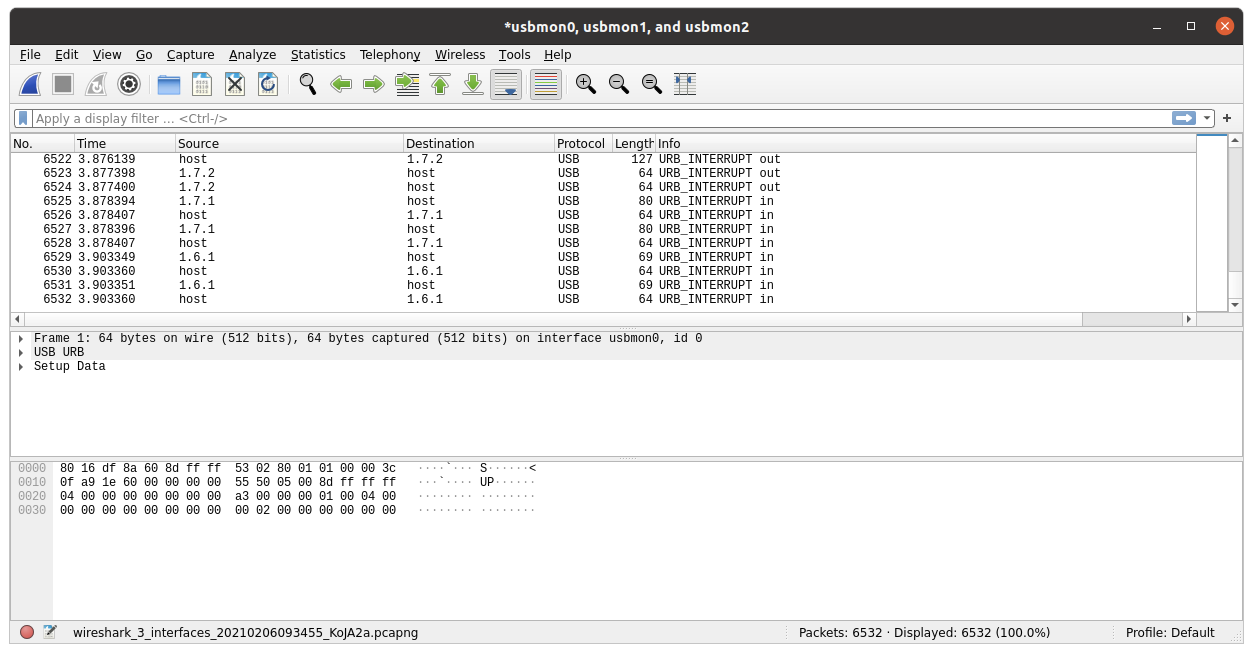
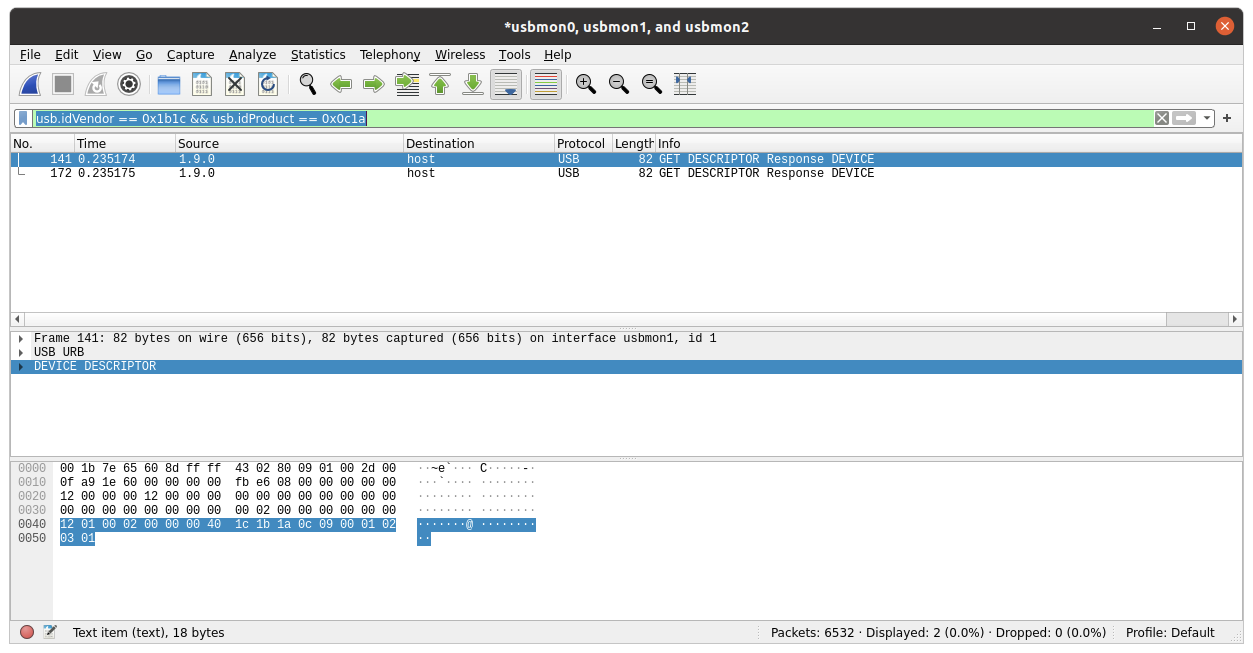
Moved the VM creation steps to a separate doc to restore the previous documentation flow.

diff --git a/docs/developer/capturing-usb-traffic.md b/docs/developer/capturing-usb-traffic.md
@@ -16,164 +16,86 @@ application.
 
 ## Capturing USB traffic on a native Windows host
 
-Capturing traffic between the source application and your device requires a little setup, but once in place gives you a powerful tool to decipher the protocol.  For Corsair devices, for example, the application that controls your device and issues the device-specific commands is the Corsair iCue software which runs on Windows.  This guide will take you through the steps to set up the network traffic listener specifically for Corsair, but these instructions will be applicable for any other devices that are controlled from Windows software.  I chose Corsair for this because that's the only device I have at my disposal 🙂
+Get [Wireshark].  During the Wireshark setup, enable the installation of
+USBPcap for experimental capturing of USB traffic.  Reboot.
 
-Basic Steps:
-1. Enable Virtualization in your BIOS
-2. Install a Virtual Machine manager.
-3. Create a  Windows VM
-4. Install and run your device controlling software in the Windows VM (Corsair iCue in this example).
-5. Install wireshark on your Linux box.
-6. Set up a filter so that ONLY the traffic between your Windows VM and Device are captured.
-7. Capture the traffic!
+To capture some USB traffic, start Wireshark, double click the USBPcap1
+interface to start capturing all traffic on it, and proceed to [Finding the target device](#finding-the-target-device).
+
+_If you have more than one USBPcap interface, you may need to look for the
+target devices in each of them._
 
 
 
-### Step 1. Enable Virtualization in your BIOS
 
-The first step to getting your windows 10 64-bit VM up and running is to ensure your motherboard enables hardware support for Intel VT-x or AMD-v.  These features  are required in order to run a 64-bit VM, or have a VM that supports more than 1 CPU core.   In most modern motherboards these features are disabled by default, so you may need to enable them in your BIOS.  The exact setting to check is motherboard dependent, but should be something in the "virtualization" universe.  This post lists a few of the common settings, but to save you a click, you can look for the following:
-- "Enable Virtualization Technology", 
-- "Enable SVM Mode" (AMD CPUs), 
-- "Enable Vanderpool Technology" (Intel)
-- "Secure Virtual Mode"
-- "Intel (VMX) Virtualization Technology"
+## Capturing USB traffic on Linux
+_and capturing USB traffic in a Windows VM, through the Linux host_
 
-On my z490-f motherboard, the last setting was the correct one.  If you poked around and can't find a setting that seems right, and your motherboard is somewhat recent (last 5 years), then it might be enabled by default and you can just move on the next step.  You will know for sure whether it is enabled if you are unable to create a 64 bit windows 10 VM in step 3.  If that's the case, then you'll need to look harder for the setting in your BIOS, or get your Google on.
+You will need to install [Wireshark] from your favorite package manager.
 
-If you do make any changes in your BIOS then do a power cycle (turn the computer totally off, then on) to ensure the BIOS changes are enabled.  Sometimes a reboot doesn't do it, and the extra few seconds turning the computer all the way off is a good investment to eliminate variables.
+You may have to run Wireshark as root to be able to capture USB traffic.
+Alternatively you can give the your normal user permissions to capture traffic by
+adding your self to the `wireshark` group and granting yourself read permissions on the `/dev/usbmon*` devices.
+Some extra steps may be needed, you can follow the instructions [here](https://wiki.wireshark.org/CaptureSetup/USB).
+Note you may need to logout and login agin for these changes to take effect.
 
+The general steps are as follows:
 
-### Step 2. Install a Virtual Machine manager
+1. [Create and configure a Windows VM](./creating-vm-for-capture.md).
+2. Start listening for the device USB traffic on Wireshark.
+4. Start changing device settings using the application running in the Windows VM and watch the messages appear in the Wireshark interface running on the host OS.
+5. Success!
 
-My Virtual Machine software of choice for Linus is virt-manager.  VirtualBox is also popular, but I have had mixed results with it so default to virt-manager which can be installed via your favorite package manager.
-```
-sudo apt-get install virt-manager
-```
-Start it up. 
-```
-virt-manager
-```
-You might get a warning about a missing daemon running.  If so, enable the daemon.
-Reboot. 
+To capture USB traffic after setting up the VM, start Wireshark and select the appropriate `usbmon` interface for capturing traffic to your device.  You can select them on the main screen, or in the Capture -> Options menu.  If you aren't sure which usbmon device is correct, select them all then proceed to [Finding the target device](#finding-the-target-device).
 
+![usbmon interface](./images/wireshark_1.png)
 
-### Step 3. Create a Windows VM
+## Finding the target device
+[Finding the target device](#finding-the-target-device)
 
-With the hardware all set to go and virt-manager installed, its time to create the guest VM running Windows 10.  
-First, download the Windows 10 ISO:  https://www.microsoft.com/en-in/software-download/windows10ISO
-You will need a free Microsoft account to download the ISO, but you do not need a license (assuming you are just using the VM for testing).
+Wireshark captures USB traffic at the bus level, which means that all devices
+on that bus will be captured.  This is a lot of noise, so the first step is
+find the target device among all others and filter the traffic to that device.
 
-Start virt-manager
-```
-virt-manager
-```
-After Virtual Machine Manager opens, create a new VM by selecting File -> "Create New Virtual Machine", or click this icon in the toolbar.  
-![Create a new virtual machine](./images/create_vm.png)
+_For this example, assume the target device has vendor and product IDs `0x1b1c`
+and `0x0c1a`, respectively._
 
-If you see a warning message on that "Create a virtual machine" screen that KVM is not available, then this is a sign that virtualization is likely disabled in your bios.  Please see step 1.  
-![Create VM 1](./images/create_vm_1.png)  
+First, capture some USB traffic and apply a filter to the captured traffic (via the top bar) to filter out everything except the `GET DESCRIPTOR` response for this device. 
 
-If you continue forward without resolving this, then you are likely to encounter this scary message at some point.
-![Create VM 2](./images/create_vm_2.png)  
-
-Assuming you are all set, then ensure the "Local install media option" is selected, then select "Forward".  
-![Create VM 3](./images/create_vm_3.png)  
-
-Choose the ISO you downloaded previously, and click Forward.  
-![Create VM 4](./images/create_vm_4.png)  
-
-Allocate sufficient CPU and memory (I chose 2 CPU and 4 GB of memory).  Click Forward.
-![Create VM 5](./images/create_vm_5.png)  
-
-Next choose as much disk space as you deem necessary (I chose 50GB).  Click Forward.
-![Create VM 6](./images/create_vm_6.png)  
-
-In the last screen, check "Customize configuration before install, and click Finish.
-![Create VM 7](./images/create_vm_7.png)  
-
-This will take you to this screen:
-![Create VM 8](./images/create_vm_8.png)  
-
-This is the screen that enables you to make your attached devices available to the guest VM.  In my case, I want to make my Corsair Lightning Node Core, Corsair Commander Pro, and Corsair H100i RGB Pro XT available to the guest VM so that I can control them in the guest VM via the Corsair iCue software.  
-To make them available to the guest VM, click "Add Hardware", then select "USB Host Device".  The right side of the screen will list off the USB devices attached to your motherboard.  Select the device you would like to add and click Finish. 
-![Create VM 9](./images/create_vm_9.png)  
-
-Repeat this for each device you would like to add to your guest VM.  In my case, I selected the 3 Corsair devices.  Once added, they should show up in your VMs hardware list.  In the screenshot below, they are the 3 USB devices.
-![Create VM 10](./images/create_vm_10.png)  
-
-Then, click "Begin Installation" in the non-obvious upper left corner and follow the on-screen instructions to install Windows 10.
-
-
-### Step 4. Install and run your device controlling software in the Windows VM 
-
-Once Windows 10 is installed, install the software that will control your device.  In the case of a Corsair device, the software is Corsair iCue.  Download the latest version from Corsair's website and install it.  When you run it for the first time, it should auto-detect your devices, allowing you to control them as you see fit.  If you are controlling RGB lighting like I was, then go crazy experimenting with some of the neato effects. 
-![iCue](./images/icue.png)  
-
-When you are done playing, it's time to start snooping on the network traffic that the software is using to control the device(s).
-
-
-### Step 5. Install wireshark on your Linux box.
-
-```
-sudo apt install wireshark
-```
-
-### Step 6. Set up a filter so that ONLY the traffic between your Windows VM and Device are captured.
-Ensure your guest VM is running.
-Be sure usbmon kernel module is loaded so you can capture USB traffic
-```
-cat /proc/modules | grep usbmon
-```
-
-if it isn't there, then load it.
-```
-sudo modprobe usbmon
-```
-
-Start Wireshark
-```
-sudo wireshark
-```
-
-Once open, select Capture -> Options in the top menu (or hit Ctrl-K).  
-![Wireshark 1](./images/wireshark_1.png)  
-
-This window allows you to filter your traffic sniffing to only certain devices.  For our purposes, we only want to list to USB traffic since our devices are attached via USB to our motherboard.
-Select all the "usbmon" devices that you see, then click Start.  If you do not see any usbmon devices, then you likely don't have the usbmon kernel module loaded.  Please see the instructions above.
-
-After pressing Start, wireshark will start listening for traffic across all your USB devices.  You should see messages appearing in the main content windows of wireshark.
-![Wireshark 2](./images/wireshark_2.png)  
-
-If you see messages. then that indicates that wireshark can successfully listen to all your USB traffic and we are nearly there.  Let it listen for a few seconds, then press the red square button in the top icon bar to stop listening for traffic.
-
-Next step is to filter for only the messages we care about.  To do so, first find the vendorId, and the productId of your devices.  The easiest way to find them is in your VM configuration.  In your running guest VM, click the "Show Virtual Hardware Details" button.  
-![VM Details](./images/vm_details.png)  
-
-In the virtual hardware window, select the USB device on the left-hand side of the window that corresponds to the device you would like to monitor.  In my case, it is the Corsair Lightning Node Core device.  On the left hand side, you can see the "USB 1b1c:0c1a".  The first number "1b1c" is the vendorId, and the second number "0c1a" is the productId.  You'll need these for filtering.
-![Wireshark 3](./images/wireshark_3.png)  
-
-Return back to Wireshark and in the top filter bar, enter the following, replacing the values with your vendor and product ids.  Press enter to activate the filter.
 ```
 usb.idVendor == 0x1b1c && usb.idProduct == 0x0c1a
 ```
+![Wireshark 4](./images/wireshark_2.png)  
 
-If you have entered the values correctly (note the "0x" prepended to the values), you should have filtered the captured traffic to only be the GET DESCRIPTOR responses.
-![Wireshark 4](./images/wireshark_4.png)  
 
 Next step is to get the device address so that we can tell wireshark to only capture traffic to our desired device.
-Highlight one of the GET DESCRIPTOR response packets, expand the USB URB section in the packet details, and find the "Device: #" line. This is the device address.   Right click the "Device: #" entry, choose "Apply As Filter", then "Selected".  In my screenshot below, the device number was 9.
-![Wireshark 5](./images/wireshark_5.png)  
+Select one of the `GET DESCRIPTOR` response packets, expand the USB URB section in the packet details, and find the "Device: #" line. This is the device address.   Right click the "Device: #" entry, choose "Apply As Filter", then "Selected".  In the screenshot below the device number was 9.
+![Wireshark 5](./images/wireshark_3.png)  
 
-This will change your packet filter to something like "usb.device_address == 9", which is exactly what we want.  Now only traffic sent to that specific device will be captured.
-![Wireshark 6](./images/wireshark_6.png)  
+This will change your packet filter to something like `usb.device_address == 9`, which is exactly what we want.  Now only traffic sent to that specific device will be displayed.
+![Wireshark 6](./images/wireshark_4.png)  
 
-Success!  You can now modify settings for your device in the the guest VM, and capture the traffic in wireshark.  For convenience, you may want to save your filter for future captures.  Click on the bookmark icon immediately next to the filter to save it.
-
-### Step 7. Capture the traffic!
-With everything now in place you are all set to capture traffic.  Click the shark fin button in the menu bar to start a fresh capture, then make your device changes in the guest VM to generate your desired traffic. When you are happy with the results, stop the capture and export your traffic File -> Export Specified packets.
+For convenience, you may want to save your filter for future captures.  Click on the bookmark icon immediately next to the filter to save it.
 
 
+## Exporting captured data
 
+There are two main useful ways to work with Wireshark captures of USB traffic.
+
+The first is within Wireshark itself, using its native PCAP format (or any of
+its variants), which is useful for manual analysis.  _PCAP files are also the
+preferred way of storing and sharing captured USB traffic._
+
+You can simply File -> Save to export captured traffic from Wireshark.  But for
+more control over what will be exported (for example, only currently
+filtered/displayed packets), File -> Export Specified Packets is generally
+preferred.
+
+The other way of analyzing USB traffic is through external, and sometimes
+custom, tools.  In theses cases it may be helpful to additionally export the
+data to JSON (File -> Export Packet Dissections -> As JSON).  Plain text or CSV
+dissections are _not_ very useful with USB data, since Wireshark tends to
+truncate the long fields that are of our interest.
 
 ## Next steps
 
@@ -185,7 +107,7 @@ so that I can easily only show the fields I can about and can use other bash com
 some of the extraneous messages (for example Corsair iCue sends a get status message every second which I am generally not
 interested in).
 
-Next steps would be to take a look at (analyzing USB protocols)[techniques-for-analyzing-usb-protocols.md]
+Next steps would be to take a look at [analyzing USB protocols](techniques-for-analyzing-usb-protocols.md)
 
 [Wireshark]: https://www.wireshark.org
 [USBPcap]: https://desowin.org/usbpcap/

diff --git a/docs/developer/creating-vm-for-capture.md b/docs/developer/creating-vm-for-capture.md
@@ -1,0 +1,107 @@
+## Virtual Machine Setup for Traffic Capture
+
+Capturing traffic between the source application running in a VM and your device requires a little setup, but once in place gives you a handy tool to capture USB traffic.  There are a few nuances of which you should be aware to correctly set up a VM for USB traffic capture, and this doc will walk through the steps required using a reference configuration in an attempt to make the steps as clear as possible.  Your configuration will likley differ from the reference configuration, but hopefully having a working reference will be helpful to adapt to your environment. 
+
+#### Reference Configuration ####
+- Virtual Machine Manager: [virt-manager](https://virt-manager.org/)
+- Guest OS: Windows 10 64-bit 
+- Host OS: Ubuntu 20.04
+- Source application: Corsair iCue  
+
+In short, the reference configuration will be running Corsair iCue in the Windows 10 guest VM, and capturing the device USB traffic in Wireshark running in the Ubuntu host OS.
+
+### Basic Steps ###
+1. Enable Virtualization in your BIOS
+2. Install a Virtual Machine manager.
+3. Create a  Windows VM
+4. Install and run your device controlling software in the Windows VM (Corsair iCue in this example).
+5. Capture the traffic.
+
+
+### Step 1. Enable Virtualization in your BIOS
+
+Ensure your motherboard enables hardware support for Intel VT-x or AMD-v.  These features are required in order to run a 64-bit VM, or have a VM that supports more than 1 CPU core.   In most modern motherboards these features are disabled by default, so you may need to enable them in your BIOS.  The exact setting to check is motherboard dependent, but should be something in the "virtualization" universe.  [This post](https://forums.virtualbox.org/viewtopic.php?f=1&t=62339) lists a few of the common settings, but to save you a click you can look for the following:
+- "Enable Virtualization Technology", 
+- "Enable SVM Mode" (AMD CPUs), 
+- "Enable Vanderpool Technology" (Intel)
+- "Secure Virtual Mode"
+- "Intel (VMX) Virtualization Technology"
+
+If you poked around and can't find a setting that seems right, and your motherboard is somewhat recent, then it might be enabled by default and you can just move on the next step.  You will know for sure whether it is enabled if you are unable to create a 64 bit windows 10 VM in step 3.  If that's the case, then you'll need to look harder for the setting in your BIOS, or get your Google on.
+
+If you do make any changes in your BIOS then do a power cycle (turn the computer totally off, then on) to ensure the BIOS changes are enabled.  Sometimes a reboot doesn't do it, and the extra few seconds turning the computer all the way off is a good investment to eliminate variables.
+
+
+### Step 2. Install a Virtual Machine manager
+
+There are several capable Virtual Machine managers that can be leveraged for running the Windows 10 guest VM, but [virt-manager](https://virt-manager.org/) will be used for the purposes of this document.  [VirtualBox](https://www.virtualbox.org/) is another popular choice.
+
+Install virt-manager via your package manager of choice and start it up.
+```
+virt-manager
+```
+You might get a warning about a missing daemon running.  If so, enable the daemon.
+Reboot. 
+
+
+### Step 3. Create a Windows VM
+
+With the hardware all set to go and virt-manager installed, its time to create the guest VM running Windows 10.  
+First, download the Windows 10 ISO:  https://www.microsoft.com/en-in/software-download/windows10ISO
+
+Start virt-manager
+```
+virt-manager
+```
+After Virtual Machine Manager opens, create a new VM by selecting File -> "Create New Virtual Machine", or click this icon in the toolbar.  
+![Create a new virtual machine](./images/create_vm.png)
+
+If you see a warning message on that "Create a virtual machine" screen that KVM is not available, then this is a sign that virtualization is likely disabled in your bios.  Please see step 1.  
+![Create VM 1](./images/create_vm_1.png)  
+
+If you continue forward without resolving this, then you are likely to encounter this scary message at some point.
+![Create VM 2](./images/create_vm_2.png)  
+
+Assuming you are all set, then ensure the "Local install media option" is selected, then select "Forward".  
+![Create VM 3](./images/create_vm_3.png)  
+
+Choose the ISO you downloaded previously, and click Forward.  
+![Create VM 4](./images/create_vm_4.png)  
+
+Allocate sufficient CPU and memory (I chose 2 CPU and 4 GB of memory).  Click Forward.
+![Create VM 5](./images/create_vm_5.png)  
+
+Next choose as much disk space as you deem necessary (I chose 50GB).  Click Forward.
+![Create VM 6](./images/create_vm_6.png)  
+
+In the last screen, check "Customize configuration before install, and click Finish.
+![Create VM 7](./images/create_vm_7.png)  
+
+This will take you to this screen:
+![Create VM 8](./images/create_vm_8.png)  
+
+This is the screen that enables you to make your attached devices available to the guest VM.  The reference machine used in this doc has a Corsair Lightning Node Core, Corsair Commander Pro, and Corsair H100i RGB Pro XT attached, so all three of them need to be added.  
+To make them available to the guest VM, click "Add Hardware", then select "USB Host Device".  The right side of the screen will list off the USB devices attached to your motherboard.  Select the device you would like to add and click Finish. 
+![Create VM 9](./images/create_vm_9.png)  
+
+Repeat this for each device you would like to add to your guest VM.  Once added, they will show up in your VMs hardware list.  In the screenshot below, the 3 Corsair devices that were added are shown as the 3 USB devices.
+![Create VM 10](./images/create_vm_10.png)  
+
+Before moving on, please note your device's productId and vendorId.  These are displayed in the hardware list, and you will need them to filter your wireshark traffic.  Write down the product id and vendor id for the device whose traffic you will be monitoring.  
+
+<img src="./images/vendor_product_id.png" width="450"/>
+
+Then, click "Begin Installation" in the non-obvious upper left corner and follow the on-screen instructions to install Windows 10.
+
+
+### Step 4. Install and run your device controlling software in the Windows VM.
+
+Once Windows 10 is installed, install the software that will control your device.  In the case of a Corsair device, the software is Corsair iCue.  Download the latest version from Corsair's website and install it.  When you run it for the first time, it should auto-detect your devices, allowing you to control them as you see fit.  
+![iCue](./images/icue.png)  
+
+
+### Step 5. Capture the traffic.
+
+At this point you should be all set to start capturing taffic between the guest VM and the host device. Follow the instructions for [finding the target device](./capturing-usb-traffic.md#finding-the-target-device) on the Capturing USB traffic page.
+
+
